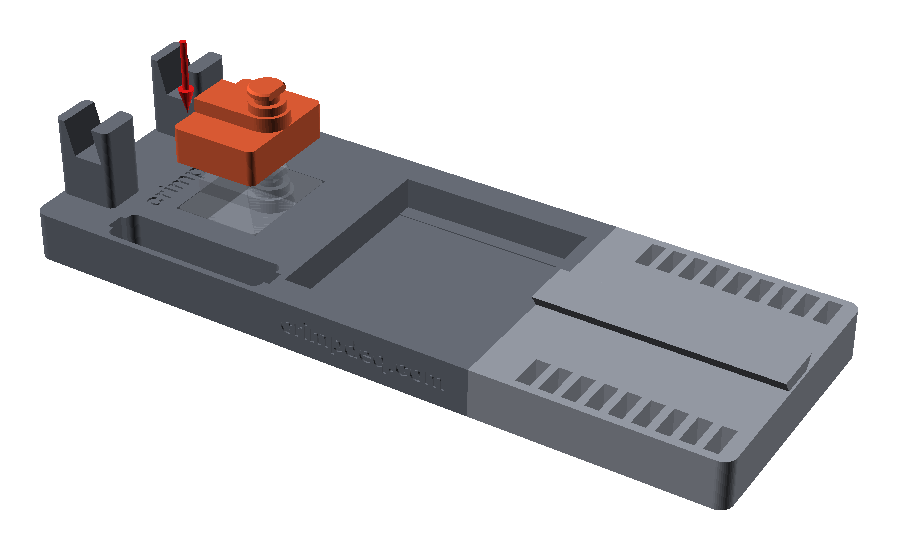
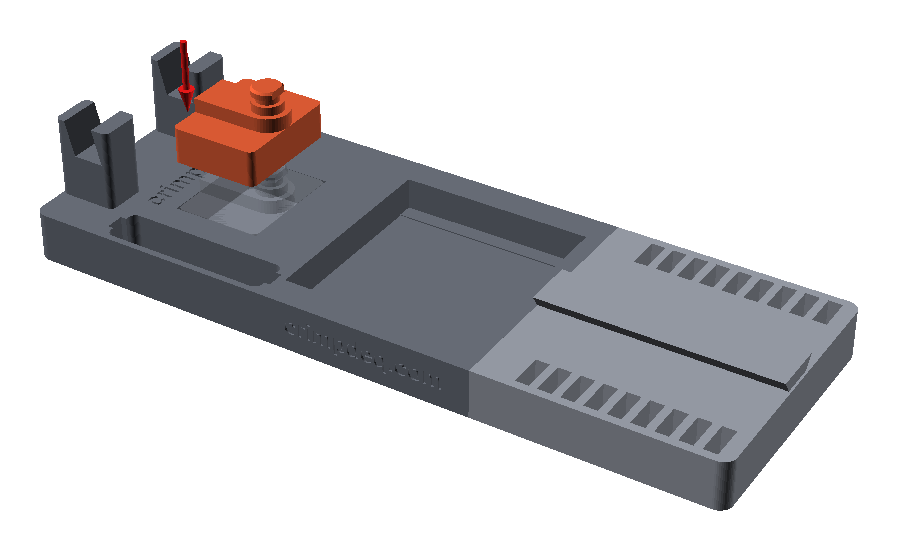
fix: size the eye lugs to the load-cell eye rings' 15 mm bore

diff --git a/docs/src/design/index.md b/docs/src/design/index.md
@@ -5,9 +5,9 @@
 The device is isometric and fully printed. It holds the
 [crimpdeq-case v2.0.0](https://github.com/crimpdeq/crimpdeq-case/tree/v2.0.0)
 enclosure, which lies flat, lid up, in the middle of a printed base. The
-case encloses the whole load cell. Each Ø17 mm eye is reached through a
-vertical U-slot, Ø22 mm round the eye and open to the case end, through the
-full height of the case. Printed lugs rise through those slots into the eyes:
+case encloses the whole load cell. Each Ø17 mm eye holds a pressed-in ring
+with a Ø15 mm bore, and is reached through a vertical U-slot, Ø22 mm round
+the eye and open to the case end, through the full height of the case. Printed lugs rise through those slots into the eyes:
 
 - the **anchor block** holds the left eye and bears on the base
 - the **finger grip** holds the right eye and carries the hangboard pocket
@@ -26,19 +26,19 @@ keep.
 
 A narrow tongue rises from the anchor block and from the grip through each
 U-slot, keeping 1 mm from the case, up to the load cell's underside. The load
-cell rests on the tongues. On each tongue, a round lug fills the eye with
-0.25 mm clearance, and the eye bears on it across its full 16.5 mm diameter
-and the load cell's 4 mm thickness.
+cell rests on the tongues. On each tongue, a round lug fills the eye's
+ring with 0.25 mm clearance, and the ring bears on it across its full
+14.5 mm diameter and the load cell's 4 mm thickness.
 
-Above the load cell the lug narrows to a Ø11 mm neck, then widens to a head
+Above the load cell the lug narrows to a Ø10.5 mm neck, then widens to a head
 no wider than the lug, with a 1 mm lead-in chamfer on top, so the eye still
 drops over it. The head's underside is a 2 mm-wide flat ring for the clip,
-then a short printable chamfer. The head is cut flat on its inboard side,
+out to the lug's full diameter. The head is cut flat on its inboard side,
 1 mm clear of the battery walls that the case lid drops into the inboard edge
 of each U-slot. Only the outboard side of the lug carries the pull.
 
 The anchor block and the grip print upright. The lug is short and round, so
-even loaded across the layers its root stays at 4.4 MPa bending at the design
+even loaded across the layers its root stays at 6.6 MPa bending at the design
 target.
 
 ## Eye clips

diff --git a/docs/src/design/structural.md b/docs/src/design/structural.md
@@ -18,13 +18,13 @@ All values are at the 981 N design target.
 
 | Check | Stress | Limit |
 |---|---|---|
-| Eye bearing on each lug (16.5 mm × 4 mm) | 14.9 MPa | 20 MPa, lug bearing |
-| Lug root bending across the layers, eye force at the load-cell mid-plane | 4.4 MPa | 12 MPa |
-| Lug root shear across the layers | 4.6 MPa | 6 MPa |
+| Eye bearing on each lug (14.5 mm × 4 mm) | 16.9 MPa | 20 MPa, lug bearing |
+| Lug root bending across the layers, eye force at the load-cell mid-plane | 6.6 MPa | 12 MPa |
+| Lug root shear across the layers | 5.9 MPa | 6 MPa |
 | Tongue root at the deck, bending across the layers | 3.1 MPa | 12 MPa |
 | Anchor block bearing on its pocket | 1.1 MPa | 12 MPa, bearing |
-| Clip on the flat ring under the lug head, largest finger-pull tilt | 10.3 MPa | 12 MPa, bearing |
-| Lug neck pulled by the clip, across the layers | 4.1 MPa | 12 MPa |
+| Clip on the flat ring under the lug head, largest finger-pull tilt | 10.7 MPa | 12 MPa, bearing |
+| Lug neck pulled by the clip, across the layers | 4.5 MPa | 12 MPa |
 | Finger lip bending over the full 25 mm edge | 18.4 MPa | 30 MPa, bending |
 | Grip side and back walls in tension | 1.3 MPa | 12 MPa |
 | Either index key alone, in shear | 10.2 MPa | 12 MPa |
@@ -55,7 +55,7 @@ Eye bearing on printed plastic is the governing assumption of the design.
 `allowable_lug_bearing_mpa` (20 MPa by default, about 40% of PETG's
 compressive yield) is for conformal contact between the metal eye and a
 solid, 100%-infill lug. At the platform's 490 N rating the bearing stress is
-half the screened value, 7.4 MPa. The anchor block and grip print upright, so
+half the screened value, 8.5 MPa. The anchor block and grip print upright, so
 the lug and tongue roots are screened against the cross-layer tension limit,
 and lug shear against half of it.
 

diff --git a/docs/src/design/requirements.md b/docs/src/design/requirements.md
@@ -26,10 +26,10 @@ them replaces testing printed parts.
 - The platform holds the crimpdeq-case `v2.0.0` enclosure.
 - The case lies flat, lid up, and floats at least 1 mm above the deck and
   clear of every printed part. Its shell, lid and screws never carry load.
-- Hand force passes through printed round lugs in both Ø17 mm load-cell
-  eyes: the anchor block's lug and the grip's lug. Each stands on a tongue
-  rising through the case's eye U-slot, at least 1 mm from the case and its
-  lid battery walls.
+- Hand force passes through printed round lugs in the Ø15 mm ring bores
+  of both load-cell eyes: the anchor block's lug and the grip's lug. Each
+  stands on a tongue rising through the case's eye U-slot, at least 1 mm
+  from the case and its lid battery walls.
 - The lugs are solid. The anchor block and grip print upright, so the lug and
   tongue roots are screened across the layers.
 - Two snap-on eye clips hold the load cell down under the lug heads. Each
